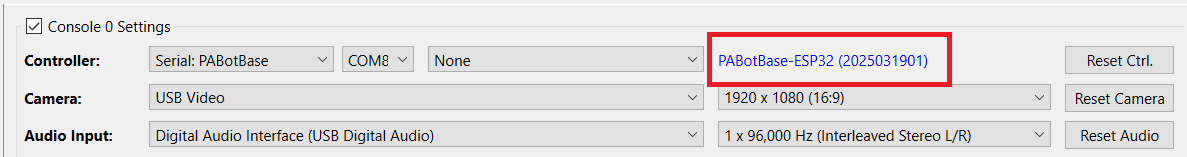
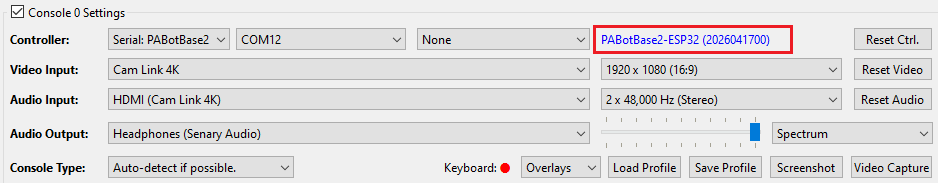
Update ESP32 and ESP32-S3 for PABotBase2.

Changed region(s): [[0.0, 0.0255, 1.0, 0.9936], [0.1237, 0.9682, 0.3092, 0.9936]]

diff --git a/docs/SetupGuide/Controllers/Controller-ESP32-WROOM.md b/docs/SetupGuide/Controllers/Controller-ESP32-WROOM.md
@@ -125,7 +125,7 @@ Open up Device Manager and look for it under "Serial Ports". If you don't see it
 4. You will then be prompted with this complicated window. Fill everything as follows:
 
     - Check the box for the first entry, at the top left.
-    - For the first entry, click on the `...` and browse for `PABotBase-ESP32-2025032100.bin` in the serial programs download folder. (version number may vary)
+    - For the first entry, click on the `...` and browse for `PABotBase2-ESP32-2026041700.bin` in the serial programs download folder. (version number may vary)
     - The right-most box should be a zero.
     - **The top row should now be green** (see image below). If not, ensure that the top left checkbox is checked.
     - At the bottom right corner, select the COM port of your ESP32.
@@ -155,7 +155,7 @@ To get there from the Switch Home screen: `Controllers` (button next to the Sett
 
 ### Step 4: Connect the ESP32 to the Computer Control program
 
-1. At the top for the "Controller" option, click the dropdown and select `Serial: PABotBase` (should be on this since this is the default)
+1. At the top for the "Controller" option, click the dropdown and select `Serial: PABotBase2` (Make sure you choose `Serial: PABotBase2` and not `Serial: PABotBase`!)
 2. In the next dropdown, select your serial device. On Windows it will be something like `COM3`.
 
 If you don't see the device in the dropdown, you probably need to refresh it (especially if you kept the program open since Step 0). You can refresh the list by clicking "Reset Ctrl".
@@ -170,9 +170,11 @@ If you do not see this or you get an error, then see [troubleshooting](#troubles
 
 In the 3rd dropdown, choose "NS1: Wireless Pro Controller".
 
-After 5 seconds, you should see a controller pop-up in the Grip menu on the Switch. If the controller doesn't show up, then press the `EN` or `RESET` button on the ESP32 board, then click "Reset Ctrl." and wait another 5 seconds. Alternatively, unplug/replug the ESP32.
+After 5 seconds, you should see a controller pop-up in the Grip menu on the Switch. If the controller doesn't show up, then press the `EN` or `RESET` button on the ESP32 board, then click "Reset Ctrl." and wait another 5 seconds. Alternatively, unplug/replug the ESP32. Lastly, try rebooting the Switch since sometimes it can get into a state where it refused to accept controllers.
 
 The controller colors are randomized and should match the color icons in the status indicator. This helps to distinguish controllers if you have multiple of them. You can change the colors in the `Nintendo Switch -> Framework Settings` menu.
+
+The 4 vertical lines next to `Connected:` are the player lights that normally found on a real controller.
 
 <img src="../Images/ESP32/ControllerSetup-ESP32-WROOM-Ready-Annotated.png">
 

diff --git a/docs/SetupGuide/Controllers/Controller-ESP32-WROOM-MacOS.md b/docs/SetupGuide/Controllers/Controller-ESP32-WROOM-MacOS.md
@@ -132,7 +132,7 @@ Download the latest version of PABotBase-ESP32 from [here](https://github.com/Po
     <img src="../Images/Mac/esp32-flash-select.png" width=400 style="display: block; margin: 10px 40px">
 
 5. Under `Flash Address`, set the text box to 0x0 (instead of the default 0x1000)
-6. Click `Choose File`: Select the firmware file (`PABotBase-ESP32-<version>.bin`), then click `Open` to choose the file.
+6. Click `Choose File`: Select the firmware file (`PABotBase2-ESP32-<version>.bin`), then click `Open` to choose the file.
 7. Click `Program`.
 
     <img src="../Images/Mac/esp32-flash-load.png" width="600" style="display: block; margin: 10px 40px">
@@ -161,7 +161,7 @@ To get there from the Switch Home screen: `Controllers` (button next to the Sett
 
 ### Step 5: Connect the ESP32 to the Computer Control program
 
-1. At the top for the "Controller" option, click the dropdown and select `Serial: PABotBase` (should be on this since this is the default)
+1. At the top for the "Controller" option, click the dropdown and select `Serial: PABotBase2` (Make sure you choose `Serial: PABotBase2` and not `Serial: PABotBase`!)
 2. In the next dropdown, select your serial device. On Mac it will be something like `cu.usbserial-#`.
 
 If you don't see the device in the dropdown, you probably need to refresh it (especially if you kept the program open since Step 0). You can refresh the list by clicking "Reset Ctrl".
@@ -178,9 +178,11 @@ If you see neither, then see [troubleshooting](#troubleshooting).
 
 In the 3rd dropdown, choose "NS1: Wireless Pro Controller".
 
-After 5 seconds, you should see a controller pop-up in the Grip menu on the Switch. If the controller doesn't show up, then press the `EN` or `RESET` button on the ESP32 board, then click "Reset Ctrl." and wait another 5 seconds. Alternatively, unplug/replug the ESP32.
+After 5 seconds, you should see a controller pop-up in the Grip menu on the Switch. If the controller doesn't show up, then press the `EN` or `RESET` button on the ESP32 board, then click "Reset Ctrl." and wait another 5 seconds. Alternatively, unplug/replug the ESP32. Lastly, try rebooting the Switch since sometimes it can get into a state where it refused to accept controllers.
 
 The controller colors are randomized and should match the color icons in the status indicator. This helps to distinguish controllers if you have multiple of them. You can change the colors in the `Nintendo Switch -> Framework Settings` menu.
+
+The 4 vertical lines next to `Connected:` are the player lights that normally found on a real controller.
 
 <img src="../Images/Mac/esp32-controller-connected.png">
 

diff --git a/docs/SetupGuide/Controllers/Controller-ESP32-S3.md b/docs/SetupGuide/Controllers/Controller-ESP32-S3.md
@@ -126,7 +126,7 @@ Only do this step if you do not see ESP32-S3 show up in device manager as a seri
 4. You will then be prompted with this complicated window. Fill everything as follows:
 
     - Check the box for the first entry, at the top left.
-    - For the first entry, click on the `...` and browse for `PABotBase-ESP32-S3-2025032100.bin` in the serial programs download folder. (version number may vary)
+    - For the first entry, click on the `...` and browse for `PABotBase2-ESP32-S3-2026041700.bin` in the serial programs download folder. (version number may vary)
     - The right-most box should be a zero.
     - **The top row should now be green** (see image below). If not, ensure that the top left checkbox is checked.
     - At the bottom right corner, select the COM port of your ESP32-S3.
@@ -147,7 +147,7 @@ Only do this step if you do not see ESP32-S3 show up in device manager as a seri
 
 ### Step 3: Connect the ESP32-S3 to the Computer Control program
 
-1. At the top for the "Controller" option, click the dropdown and select `Serial: PABotBase` (should be on this since this is the default)
+1. At the top for the "Controller" option, click the dropdown and select `Serial: PABotBase2` (Make sure you choose `Serial: PABotBase2` and not `Serial: PABotBase`!)
 2. In the next dropdown, select your serial device. On Windows it will be something like `COM3`.
 
 If you don't see the device in the dropdown, you probably need to refresh it (especially if you kept the program open since Step 0). You can refresh the list by clicking "Reset Ctrl".
@@ -167,6 +167,10 @@ Places where the Switch will accept a new controller:
 3. In a game when no other controllers are connected.
 
 <img src="../Images/GripMenu.jpg">
+
+Press ENTER on your keyboard to connect the controller. By default ENTER is mapped to the A button on the controller. Pressing any button on a wired controller will connect it to the Switch.
+
+<img src="../Images/ESP32-S3/ControllerSetup-ESP32-S3-Connected.jpg">
 
 ### Step 5: Test the connection
 
